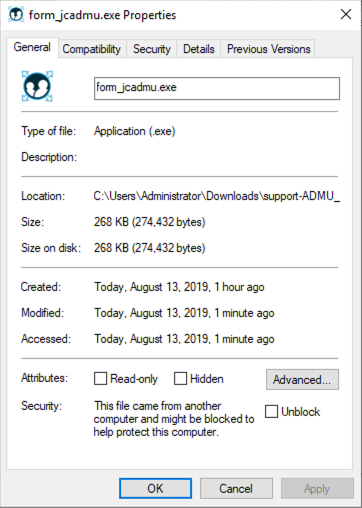
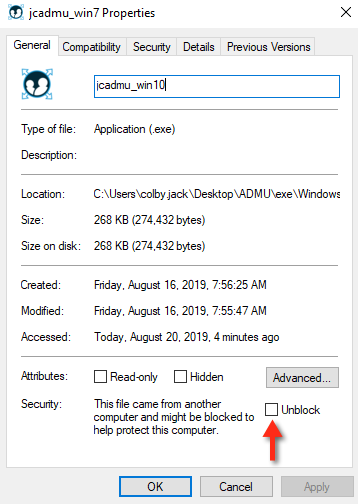
adding new image

diff --git a/ADMU/ReadMe.md b/ADMU/ReadMe.md
@@ -162,7 +162,14 @@ Powershell - Migration.ps1 & Functions.ps1
 
 To use the GUI run the relevant .exe file for your system as administrator from the Download Links above. It may also be required to unblock the Security setting stating `This file came from another computer and might be blocked to help protect this computer`. This will be addressed by code signing in a future release and not be required.
 
+![image48](https://github.com/TheJumpCloud/support/blob/master/ADMU/images/img_48.png)
+
+To resolve this right click on the .exe that you wish to run and select "Properties".
+
+
 ![image47](https://github.com/TheJumpCloud/support/blob/master/ADMU/images/img_47.png)
+
+On the security tab check the box for "Unblock" click "Ok" and you will be able to open the .exe
 
 ## ADMU Powershell Script
 
@@ -216,8 +223,6 @@ c:\jcadmu.exe -arguments -domainusername 'bob.lazar' -jumpcloudusername 'blazar'
 ![image45](https://github.com/TheJumpCloud/support/blob/master/ADMU/images/img_45.png)
 
 ## Advanced Deployment Scenarios
-
-{{Break out into sub list}}
 
  The ADMU has been developed with large scale deployments in mind. As the tool stands today we are looking to gather customer input on the various environments and use cases, from this we can tweak and improve to the tool to solve a range of scenarios and stream line the account conversion process.
 
